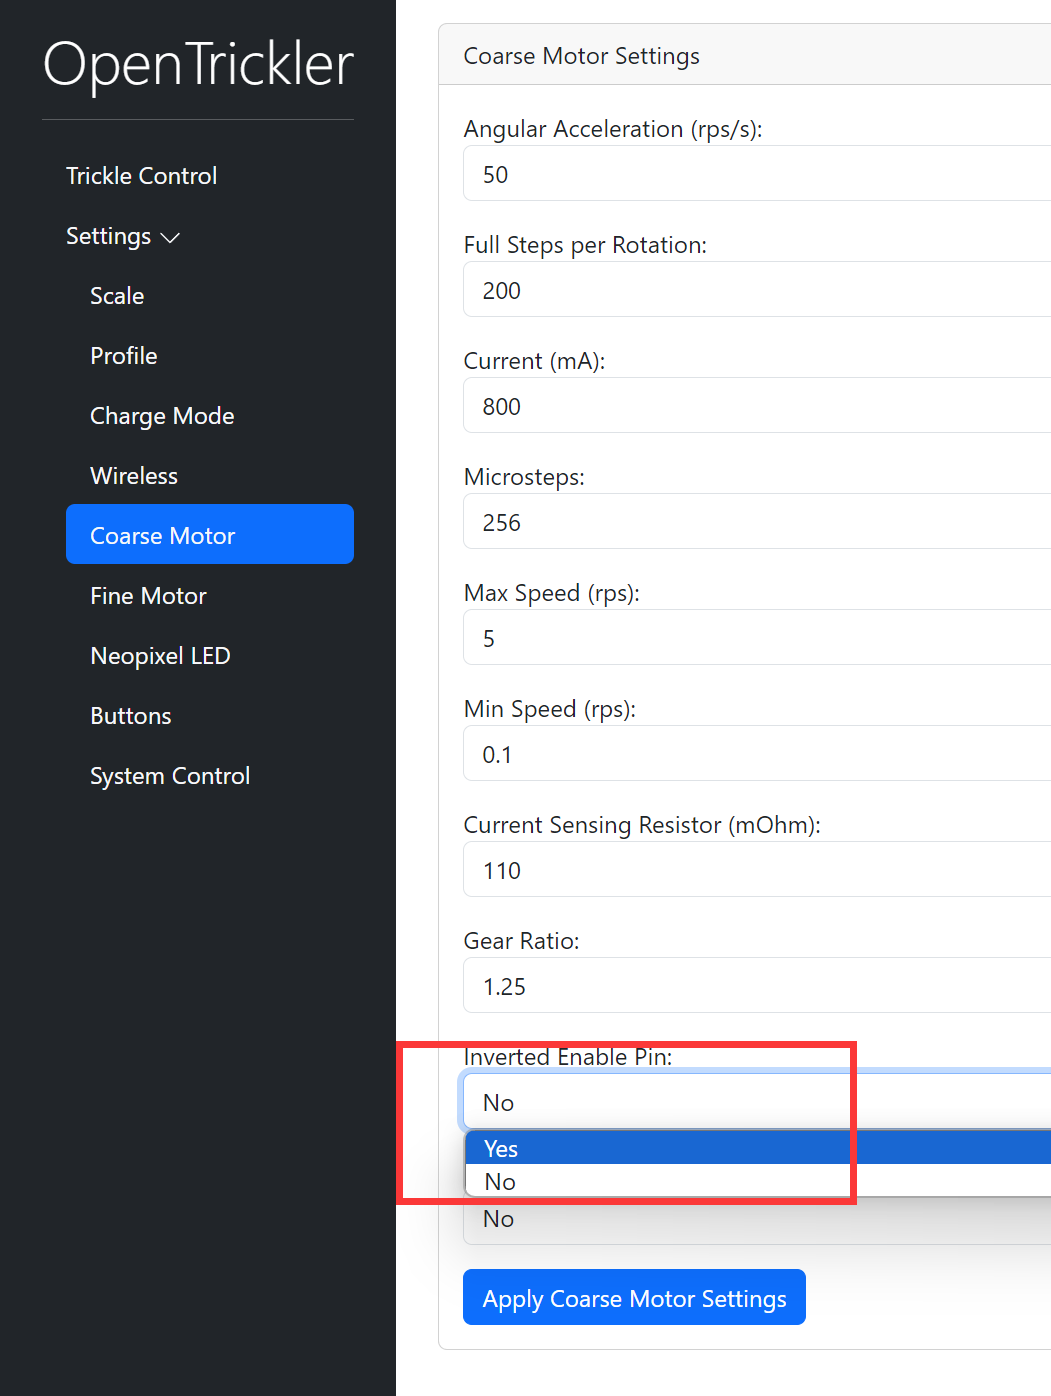
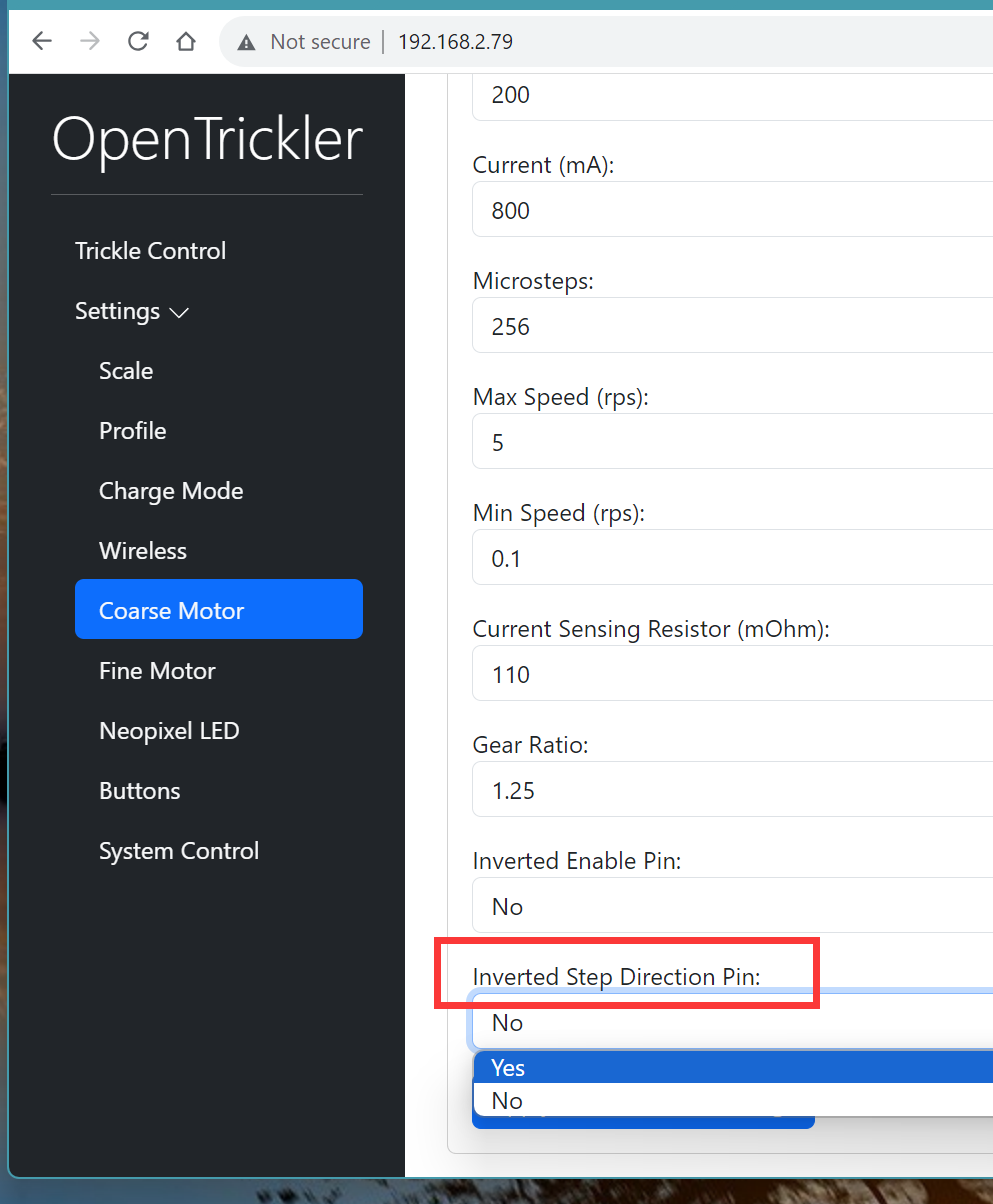
Fix image

diff --git a/Manual/initialization_guide.md b/Manual/initialization_guide.md
@@ -111,24 +111,20 @@ A quick way to validate the function of motors is to use Cleanup mode.
 **Steps:**
 
 1. From the main menu, rotate the button until the cursor points to the "Cleanup", press the button downwards to continue.
-
    ![mini_12864_menu_cleanup](Resources/mini_12864_menu_cleanup.png)
 
 2. You will then see the warning page. Make sure there is no powder in the reservoir, then rotate the button to "Next", press the button downwards to continue.  
-
    ![mini_12864_cleanup_warning](Resources/mini_12864_cleanup_warning.png)
 
 3. You will then see the "Adjust Speed" menu. 
-
    ![mini_12864_cleanup_view](Resources/mini_12864_cleanup_view.png)
-   
    At "Adjust Speed" menu, rotate the button clockwise or counter clockwise to adjust the speed of both motors. Use RESET button to exit. Pressing the button downwards will change the control of motors. 
 
 **Validations:**
 
 * If any of, or both motor vibrates, instead of moving clockwise or counter clockwise, you need to swap the middle two pins of the motor cable. 
   ![swap_motor_cable_pin](Resources/swap_motor_cable_pin.png)
-* For positive speed, the both motors should rotate clockwise. If not, then you need to invert the motor step direction via the web interface, under "Coarse Motor", or/and "Fine Motor". You will need to save the settings to the EEPROM and reboot. 
+* For positive speed, the both motors should rotate clockwise. If not, then you need to invert the motor step direction via the web interface, by toggling "Inverted Step Direction Pin, under "Coarse Motor", or/and "Fine Motor". You will need to save the settings to the EEPROM and reboot. 
   ![invert_motor_step_direction](Resources/invert_motor_step_direction.png)
 
 ### Configure and Inspect Scale Communication
@@ -148,5 +144,3 @@ Again, the "Cleanup Mode" can be used to validate the scale communication.
 
 * If you read "inf" after the Weight, it indicates the communication to the scale is not established. Please review the connection to the scale, as well as scale settings. 
 * If you can read "0" after the Weight, but the value doesn't change despite the value from the scale's screen updated. Please review the scale settings. 
-
-
